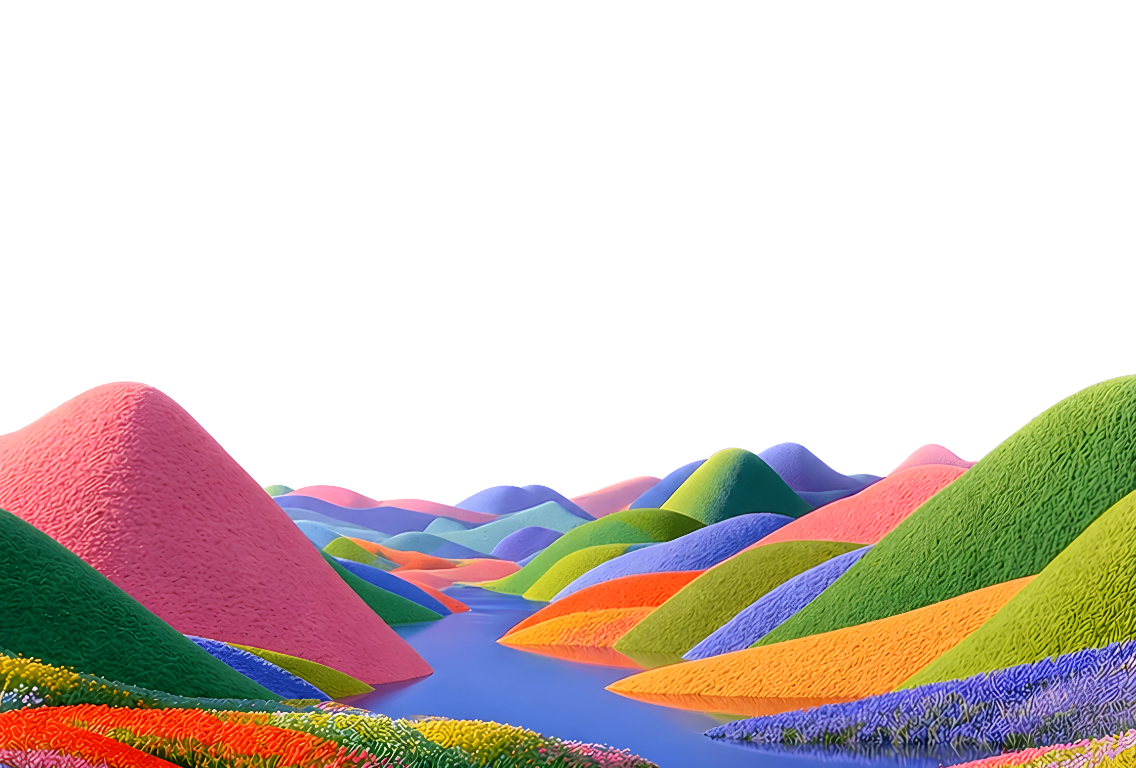
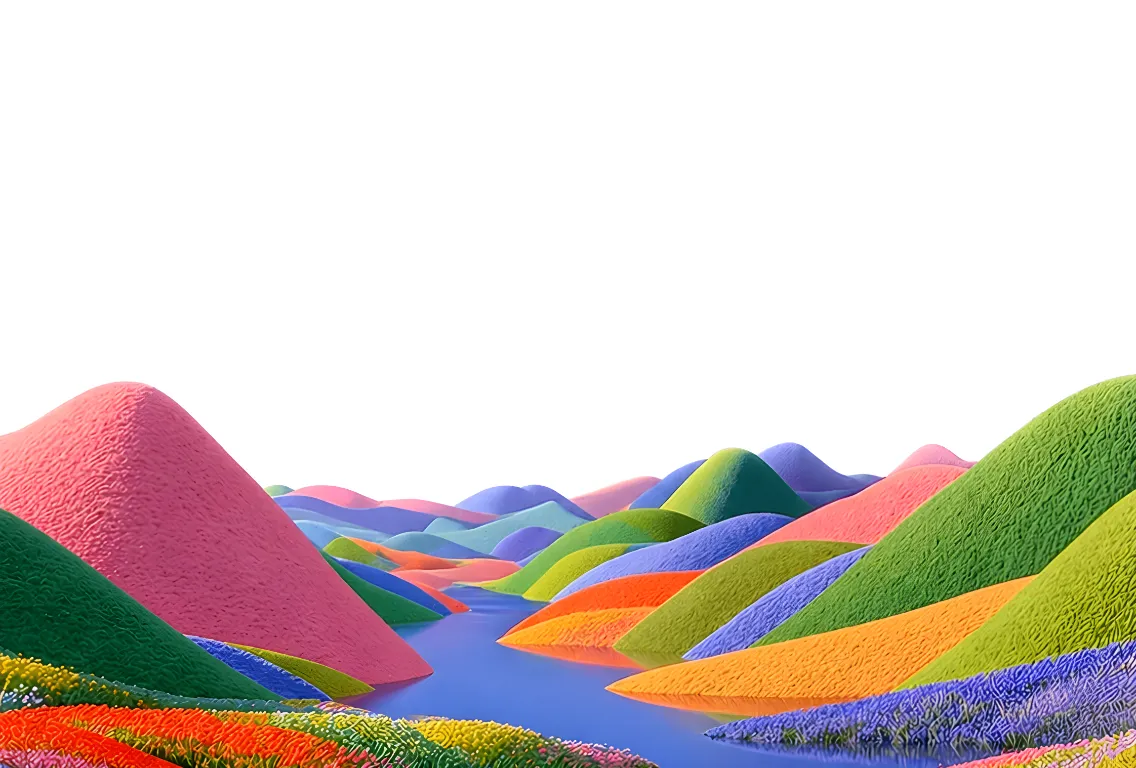
perf(platform): shrink static payload ~10MB (images, woff2 font, immutable CDN cache)
public/ carried ~12MB of assets, most of it dead weight. The landing footer
loaded a 1.9MB PNG (dark) / 976KB webp (light) as a CSS background, alongside
4 unused footer-bg.* orphans (4.3MB webp + png + jpg + a dark variant). The
body font shipped as a 200KB .ttf.

- Recompress footer backgrounds to webp q80: dark 1.9MB→180KB, light
  976KB→90KB (visually identical). Delete the 4 orphans + the UUID-named PNG.
  public/ 12MB→2MB.
- Convert UncutSans-Variable .ttf→.woff2 (200KB→80KB); point next/font at it.
- next.config: Cache-Control "public, max-age=31536000, immutable" for static
  asset extensions in /public. Vercel purges the edge cache on deploy so this
  is safe — the only rule is to rename an asset when its content changes.
- next.config: experimental.optimizePackageImports for lucide-react + fumadocs
  to keep those barrels out of the client bundle.

No logic, auth, or data-fetching changes. Verified locally: both webps and the
woff2 serve 200 with correct sizes + immutable cache-control; the page renders
with the new font; the deleted PNG 404s with no remaining references.

diff --git a/apps/platform/next.config.ts b/apps/platform/next.config.ts
@@ -3,6 +3,12 @@ import { createMDX } from "fumadocs-mdx/next";
 
 const nextConfig: NextConfig = {
   transpilePackages: ["@ciaobang/auth", "@ciaobang/db"],
+  // Tree-shake big barrel-file packages so a single `import { Icon }` does not
+  // pull the whole library into the client bundle. (Next ships lucide-react in
+  // its default list; fumadocs is ours to add.)
+  experimental: {
+    optimizePackageImports: ["lucide-react", "fumadocs-ui", "fumadocs-core"],
+  },
   // The chat surface moved from /chat to /app; keep old links working.
   async redirects() {
     return [
@@ -20,10 +26,23 @@ const nextConfig: NextConfig = {
       key: "Cache-Control",
       value: "private, no-store, max-age=0, must-revalidate",
     };
+    // Static brand assets in /public (images, fonts, lottie) are content-stable
+    // and rarely change. Let the CDN + browser cache them for a year. Vercel
+    // purges the edge cache on every deploy, so `immutable` is safe here; the
+    // only rule is: if you change an asset's *content*, give it a new filename.
+    const immutable = {
+      key: "Cache-Control",
+      value: "public, max-age=31536000, immutable",
+    };
     return [
       { source: "/api/chat/:path*", headers: [noStore] },
       { source: "/api/account/:path*", headers: [noStore] },
       { source: "/api/survey-context", headers: [noStore] },
+      {
+        source:
+          "/(.*).(svg|png|jpg|jpeg|gif|webp|avif|ico|woff|woff2|ttf|otf|lottie)",
+        headers: [immutable],
+      },
     ];
   },
 };

diff --git a/apps/platform/src/app/layout.tsx b/apps/platform/src/app/layout.tsx
@@ -11,7 +11,7 @@ import { getInitialAuth } from "@/lib/auth";
 import "./globals.css";
 
 const uncutSans = localFont({
-  src: "../fonts/UncutSans-Variable.ttf",
+  src: "../fonts/UncutSans-Variable.woff2",
   variable: "--font-body",
   display: "swap",
 });

diff --git a/apps/platform/src/components/landing-footer.tsx b/apps/platform/src/components/landing-footer.tsx
@@ -69,7 +69,7 @@ export function LandingFooter({ isSignedIn, signInHref = "/" }: LandingFooterPro
     return () => observer.disconnect();
   }, []);
 
-  const footerImage = theme === "dark" ? "/60615acd-ca89-4a73-8244-9a774ed80678.png" : "/footer-bg-light.webp";
+  const footerImage = theme === "dark" ? "/footer-bg-dark.webp" : "/footer-bg-light.webp";
 
   return (
     <footer className="mt-6">